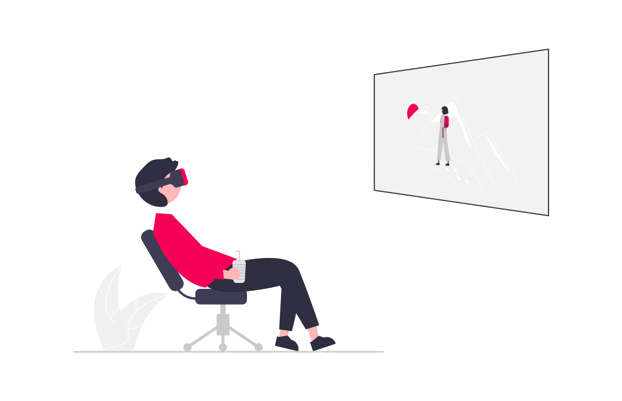
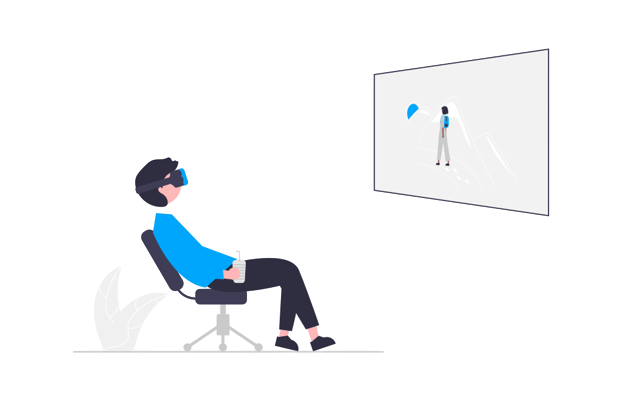
feat: changing titles color

diff --git a/src/app/components/works/works.tsx b/src/app/components/works/works.tsx
@@ -13,7 +13,7 @@ export default function Works() {
     <div className="works">
       <h1>Works</h1>
       <Splide>
-        {portfolio.map(({ id, image, projectName, subTitle, description }) => (
+        {portfolio.map(({ id, image, projectName, subTitle, description, Rlink, Plink }) => (
           <SplideSlide key={id} className="work-item">
             <div className="work-content">
               <div className="image-content">
@@ -21,9 +21,13 @@ export default function Works() {
               </div>
 
               <div className="text-content">
-                <h1>{projectName}</h1>
-                <h2>{subTitle}</h2>
+                <h2>{projectName}</h2>
+                <h3>{subTitle}</h3>
                 <p>{description}</p>
+                {/* <div className="button-content">
+                  <button>{Plink}</button>
+                  <button>{Rlink}</button>
+                </div> */}
               </div>
             </div>
           </SplideSlide>

diff --git a/src/app/layout.tsx b/src/app/layout.tsx
@@ -1,24 +1,25 @@
-import './globals.scss'
-import { Roboto } from 'next/font/google'
+import './globals.scss';
+import { Roboto, Noto_Serif_Balinese } from 'next/font/google';
 
-const inter = Roboto({ 
+const inter = Roboto({
   subsets: ['latin'],
-  weight: ["100", "300", "400", "500", "700", "900"]
-})
+  weight: ['100', '300', '400', '500', '700', '900'],
+});
+
+const principal = Noto_Serif_Balinese({
+  subsets: ['latin'],
+  weight: ['400'],
+});
 
 export const metadata = {
   title: 'Gabriel Pereira',
   description: 'Gabriel Pereira is a Developer',
-}
+};
 
-export default function RootLayout({
-  children,
-}: {
-  children: React.ReactNode
-}) {
+export default function RootLayout({ children }: { children: React.ReactNode }) {
   return (
     <html lang="en">
       <body className={inter.className}>{children}</body>
     </html>
-  )
+  );
 }

diff --git a/src/app/components/works/works.scss b/src/app/components/works/works.scss
@@ -10,10 +10,15 @@
   background-color: var(--bg-secondary);
 
   h1 {
+    margin-top: 20px;
     color: var(--text-primary);
   }
 
   h2 {
+    color: var(--text-primary);
+  }
+
+  h3 {
     color: var(--text-secondary);
   }
 
@@ -42,6 +47,10 @@
         justify-content: center;
         flex-direction: column;
         max-width: 40%;
+
+        // .button-content {
+        //   margin: 5px;
+        // }
       }
 
       .image-content {
@@ -67,11 +76,12 @@
     margin-right: 5px;
 
     h1 {
+      font-size: xx-large;
       color: var(--text-primary);
     }
 
     h2 {
-      color: var(--text-secondary);
+      color: var(--text-primary);
     }
 
     p {

diff --git a/src/app/components/main/main.scss b/src/app/components/main/main.scss
@@ -15,6 +15,7 @@
     margin-left: 20px;
     font-weight: 900px;
     font-size: 55px;
+    font-family: 'Noto Serif Balinese, sans-serif';
     color: var(--text-primary);
   }
 

diff --git a/src/app/globals.scss b/src/app/globals.scss
@@ -1,5 +1,5 @@
 :root {
-  --text-primary: #f50057;
+  --text-primary: #00a6fb;
   --text-secondary: #cfdbd5;
   --bg-primary: #000103;
   --bg-secondary: #2526248b;
